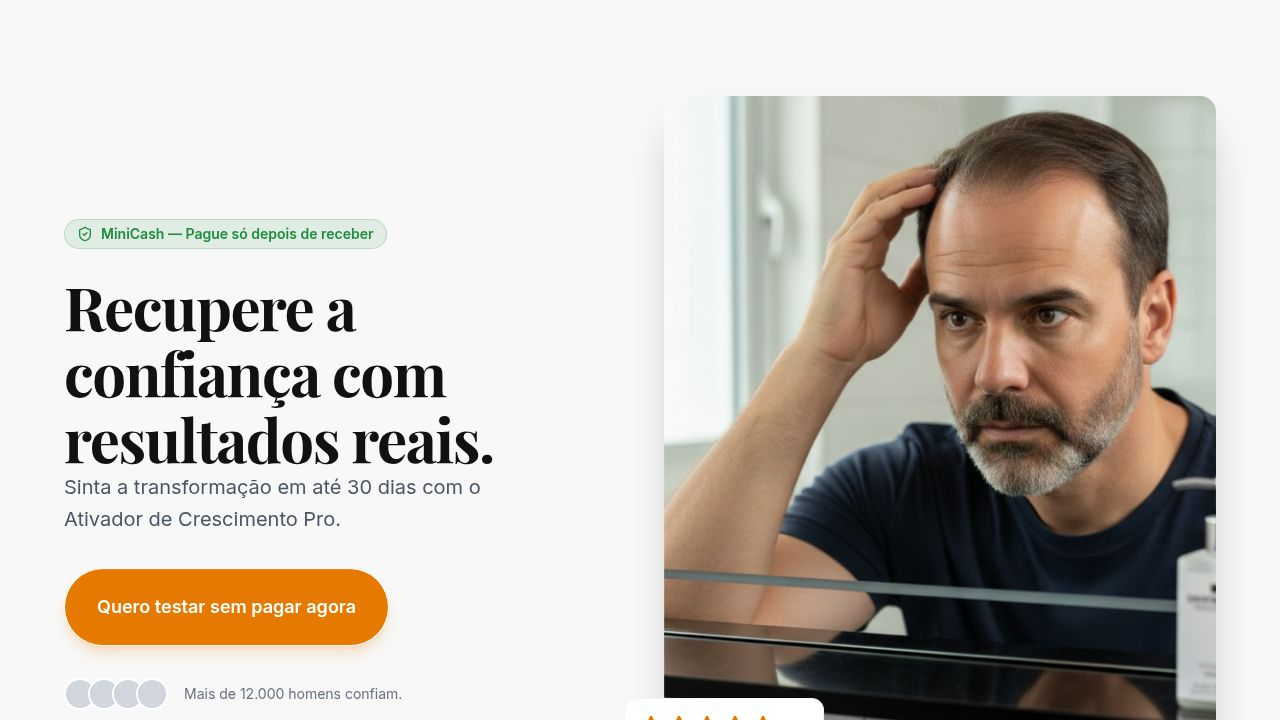
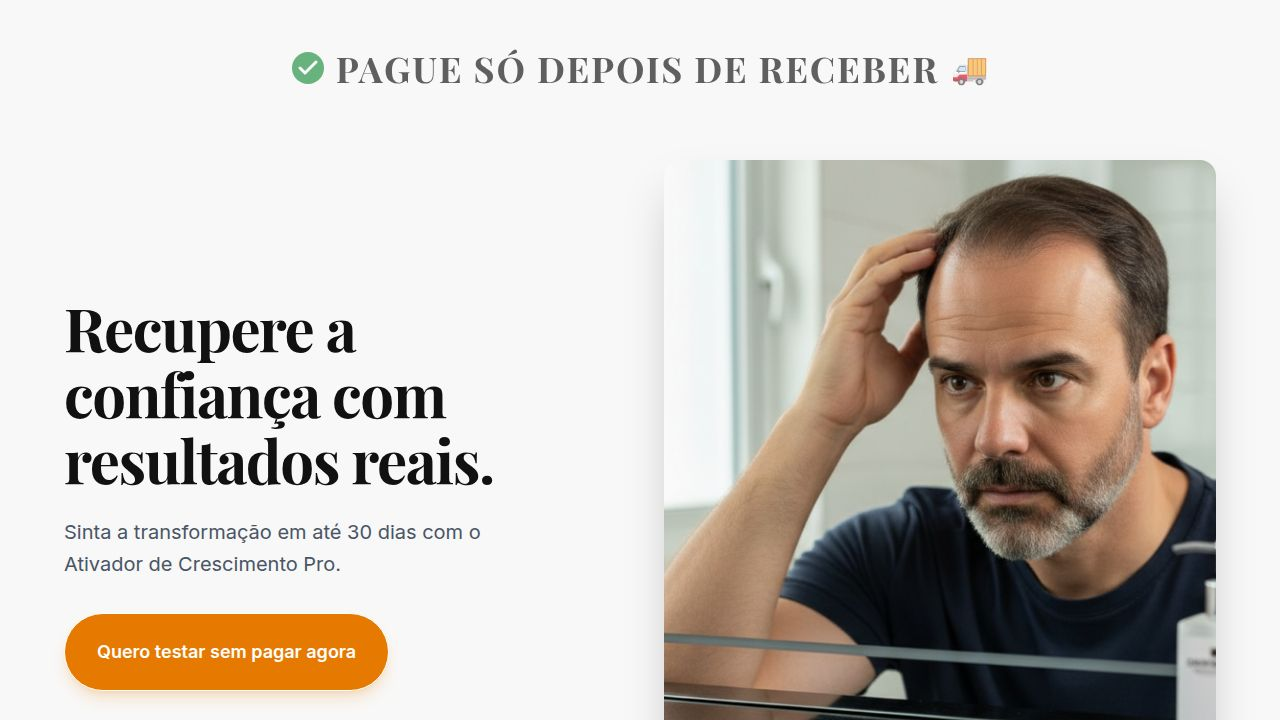
Update landing page with animated title and new customer images
Adds new customer photos to the hero section, replaces a single image with a before/after comparison with a vector arrow, and updates product packshots in pricing tiers.

Replit-Commit-Author: Agent
Replit-Commit-Session-Id: 0513cf36-acfa-4cd8-8b14-650f148f55f5
Replit-Commit-Checkpoint-Type: full_checkpoint
Replit-Commit-Event-Id: 8286bdee-e1d1-4f09-bc82-2d7a8d91f703
Replit-Commit-Screenshot-Url: https://storage.googleapis.com/screenshot-production-us-central1/1b4e437c-6574-4fbe-be24-6260dba6bca8/0513cf36-acfa-4cd8-8b14-650f148f55f5/UnxnHLU
Replit-Helium-Checkpoint-Created: true

diff --git a/client/src/pages/landing-page.tsx b/client/src/pages/landing-page.tsx
@@ -1,6 +1,6 @@
 import { useEffect } from "react";
 import { motion } from "framer-motion";
-import { Check, ShieldCheck, Star, Truck, ArrowRight, ChevronDown, Clock } from "lucide-react";
+import { Check, ShieldCheck, Star, Truck, ArrowRight, ChevronDown, Clock, MoveHorizontal } from "lucide-react";
 import { Button } from "@/components/ui/button";
 import {
   Accordion,
@@ -19,6 +19,17 @@ import beforeImg from "@assets/antes.png_1771032509259.jpeg";
 import afterImg from "@assets/depois.png_1771032517292.png";
 import confidentImg from "@assets/homem_confiante_depois_do_uso.png_1771032531880.png";
 
+// New Assets
+import face1 from "@assets/Imagem_1_1771174080222.jpeg";
+import face2 from "@assets/Imagem_2_1771174080222.png";
+import face3 from "@assets/Imagem_3_1771174080220.jpeg";
+import face4 from "@assets/Imagem_4_1771174080221.png";
+import noCap from "@assets/sem_bone.png_1771174101364.png";
+import withCap from "@assets/com_bone.png_1771174104495.png";
+import pack1 from "@assets/packshot_do_produto_1.png_1771174124701.png";
+import pack2 from "@assets/packshot_do_produto_2.png_1771174124702.png";
+import pack3 from "@assets/packshot_do_produto_3.png_1771174124703.png";
+
 const LandingPage = () => {
   useEffect(() => {
     window.scrollTo(0, 0);
@@ -32,7 +43,23 @@ const LandingPage = () => {
     <div className="min-h-screen bg-[#F8F8F8] text-[#111111] overflow-x-hidden font-sans">
       
       {/* 1. HERO SECTION */}
-      <section className="relative pt-16 pb-20 md:pt-24 md:pb-32 px-4 overflow-hidden">
+      <section className="relative pt-8 pb-20 md:pt-12 md:pb-32 px-4 overflow-hidden">
+        <div className="max-w-6xl mx-auto flex flex-col items-center mb-12">
+            <motion.div
+                animate={{ opacity: [0.5, 1, 0.5] }}
+                transition={{ duration: 3, repeat: Infinity, ease: "easeInOut" }}
+                className="flex items-center justify-center gap-3 text-center mb-6"
+            >
+                <div className="bg-[#1E8E3E] text-white p-1 rounded-full">
+                    <Check className="w-5 h-5 md:w-6 md:h-6" strokeWidth={3} />
+                </div>
+                <h1 className="text-2xl md:text-4xl font-bold uppercase tracking-wider text-[#111111]">
+                    PAGUE SÓ DEPOIS DE RECEBER
+                </h1>
+                <div className="text-2xl md:text-3xl">🚚</div>
+            </motion.div>
+        </div>
+
         <div className="max-w-6xl mx-auto grid md:grid-cols-2 gap-12 items-center">
           <div className="space-y-8 relative z-10">
             <motion.div 
@@ -40,14 +67,10 @@ const LandingPage = () => {
               animate={{ opacity: 1, y: 0 }}
               transition={{ duration: 0.6 }}
             >
-              <div className="inline-flex items-center gap-2 px-3 py-1 bg-[#1E8E3E]/10 text-[#1E8E3E] rounded-full text-sm font-semibold mb-6 border border-[#1E8E3E]/20">
-                <ShieldCheck className="w-4 h-4" />
-                MiniCash — Pague só depois de receber
-              </div>
-              <h1 className="text-4xl md:text-6xl font-serif font-bold leading-[1.1] text-[#111111] tracking-tight">
+              <h2 className="text-4xl md:text-6xl font-serif font-bold leading-[1.1] text-[#111111] tracking-tight">
                 Recupere a confiança com resultados reais.
-              </h1>
-              <p className="text-xl text-gray-600 leading-relaxed max-w-md">
+              </h2>
+              <p className="text-xl text-gray-600 leading-relaxed max-w-md mt-6">
                 Sinta a transformação em até 30 dias com o Ativador de Crescimento Pro.
               </p>
             </motion.div>
@@ -67,15 +90,14 @@ const LandingPage = () => {
             </motion.div>
 
             <div className="flex items-center gap-4 text-sm text-gray-500">
-              <div className="flex -space-x-2">
-                {[1, 2, 3, 4].map((i) => (
-                  <div key={i} className="w-8 h-8 rounded-full bg-gray-200 border-2 border-white flex items-center justify-center text-xs overflow-hidden">
-                     {/* Avatars would go here, using gray circles for now */}
-                     <span className="bg-gray-300 w-full h-full"></span>
+              <div className="flex -space-x-3">
+                {[face1, face2, face3, face4].map((face, i) => (
+                  <div key={i} className="w-10 h-10 rounded-full border-2 border-white overflow-hidden shadow-sm">
+                     <img src={face} alt="Cliente" className="w-full h-full object-cover" />
                   </div>
                 ))}
               </div>
-              <p>Mais de 12.000 homens confiam.</p>
+              <p className="font-medium">Mais de 12.000 homens confiam.</p>
             </div>
           </div>
 
@@ -111,12 +133,30 @@ const LandingPage = () => {
         <div className="max-w-6xl mx-auto px-4">
           <div className="grid md:grid-cols-2 gap-16 items-center">
             <div className="order-2 md:order-1 relative">
-              <div className="absolute -inset-4 bg-[#4A2C1A]/5 rounded-2xl transform -rotate-3"></div>
-              <img 
-                src={painImg} 
-                alt="Homem preocupado aplicando spray" 
-                className="rounded-xl shadow-lg w-full relative z-10"
-              />
+                <div className="flex items-center justify-center gap-4 relative z-10">
+                    <div className="relative w-1/2">
+                        <img 
+                            src={noCap} 
+                            alt="Sem boné" 
+                            className="rounded-xl shadow-lg w-full object-cover aspect-[3/4]"
+                        />
+                         <div className="absolute top-2 left-2 bg-black/50 text-white text-xs px-2 py-1 rounded">Realidade</div>
+                    </div>
+                    
+                    <div className="text-[#4A2C1A]">
+                        <MoveHorizontal className="w-8 h-8 md:w-12 md:h-12" strokeWidth={1.5} />
+                    </div>
+
+                    <div className="relative w-1/2">
+                        <img 
+                            src={withCap} 
+                            alt="Com boné" 
+                            className="rounded-xl shadow-lg w-full object-cover aspect-[3/4]"
+                        />
+                         <div className="absolute top-2 left-2 bg-black/50 text-white text-xs px-2 py-1 rounded">Esconderijo</div>
+                    </div>
+                </div>
+              <div className="absolute -inset-4 bg-[#4A2C1A]/5 rounded-2xl transform -rotate-1 z-0"></div>
             </div>
             <div className="order-1 md:order-2 space-y-6">
               <h2 className="text-3xl md:text-4xl font-serif font-bold text-[#111111]">
@@ -348,7 +388,7 @@ const LandingPage = () => {
                    <div className="text-4xl font-bold text-[#111111]">R$ 137</div>
                    <div className="text-sm text-gray-400 mt-2">À vista ou parcelado</div>
                 </div>
-                <img src={productImg} alt="1 Frasco" className="h-32 object-contain mx-auto mb-8" />
+                <img src={pack1} alt="1 Frasco" className="h-48 object-contain mx-auto mb-8" />
                 <div className="mt-auto">
                   <Button className="w-full bg-white border-2 border-[#111111] text-[#111111] hover:bg-gray-50 py-6 rounded-lg font-semibold mb-3">
                     Escolher MiniCash
@@ -373,8 +413,7 @@ const LandingPage = () => {
                    <div className="text-sm text-[#E67A00]/70 mt-2 font-medium">Economize R$ 77</div>
                 </div>
                 <div className="flex justify-center mb-8 relative">
-                   <img src={productImg} alt="1 Frasco" className="h-40 object-contain translate-x-4" />
-                   <img src={productImg} alt="1 Frasco" className="h-40 object-contain -translate-x-4" />
+                   <img src={pack2} alt="2 Frascos" className="h-56 object-contain" />
                 </div>
                 <div className="mt-auto">
                   <Button className="w-full bg-[#E67A00] hover:bg-[#d56b00] text-white py-6 rounded-lg font-bold text-lg mb-3 shadow-lg shadow-[#E67A00]/20">
@@ -398,9 +437,7 @@ const LandingPage = () => {
                    <div className="text-sm text-gray-400 mt-2">Melhor custo-benefício</div>
                 </div>
                 <div className="flex justify-center mb-8">
-                   <img src={productImg} alt="1 Frasco" className="h-32 object-contain translate-x-8" />
-                   <img src={productImg} alt="1 Frasco" className="h-32 object-contain z-10" />
-                   <img src={productImg} alt="1 Frasco" className="h-32 object-contain -translate-x-8" />
+                   <img src={pack3} alt="3 Frascos" className="h-48 object-contain" />
                 </div>
                 <div className="mt-auto">
                   <Button className="w-full bg-white border-2 border-[#111111] text-[#111111] hover:bg-gray-50 py-6 rounded-lg font-semibold mb-3">
